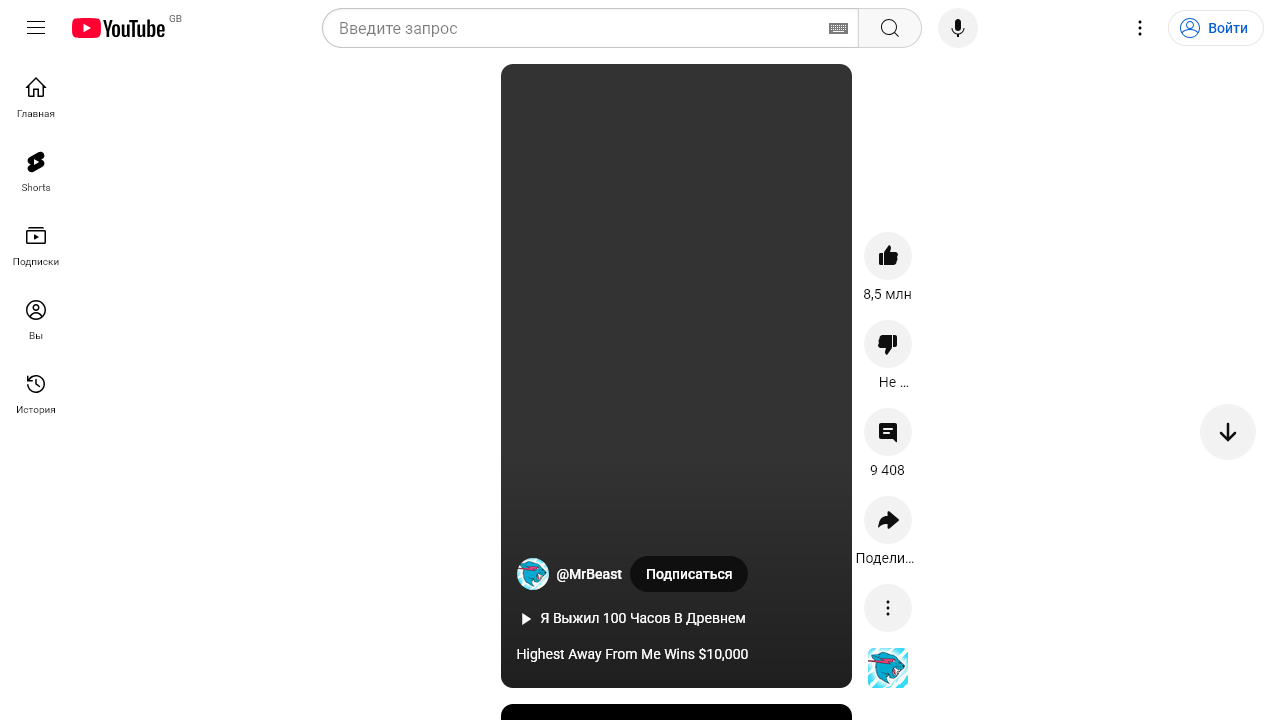
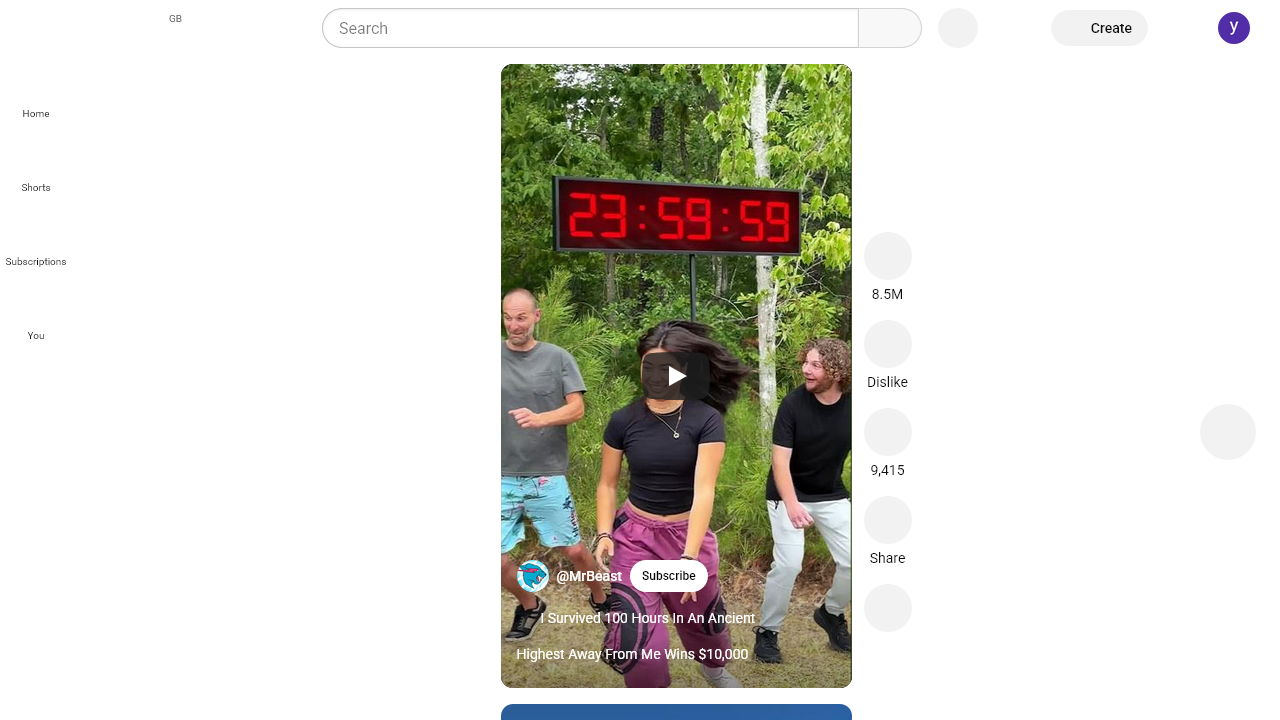
handle youtube login and include uBlockOrigin when testing

diff --git a/tests/youtube-extension.spec.ts b/tests/youtube-extension.spec.ts
@@ -2,15 +2,19 @@ import { test, expect, firefox } from "@playwright/test";
 import path from "path";
 import { withExtension } from "playwright-webextext";
 import { handleYoutubeConsent } from "./handleYoutubeConsent";
+import { handleGoogleLogin } from "./handleGoogleLogin";
+import { downloadAndExtractUBlock } from "./handleTestDistribution";
 
 require('dotenv').config();
+const authFile = path.join(__dirname, '../playwright/.auth/user.json');
 
 test.describe("YouTube Anti-Translate extension", () => {
   test("YouTube Anti-Translate extension prevents auto-translation", async () => {
+    downloadAndExtractUBlock();
     // Launch browser with the extension
     const context = await (withExtension(
       firefox,
-      path.resolve(__dirname, "../app")
+      [path.resolve(__dirname, "../app"), path.resolve(__dirname, "testUBlockOrigin")]
     )).launch()
 
     // Create a new page
@@ -34,6 +38,9 @@ test.describe("YouTube Anti-Translate extension", () => {
 
     // Sometimes youtube redirects to consent so handle it
     await handleYoutubeConsent(page);
+
+    // Player needs login to work so login
+    await handleGoogleLogin(page);
 
     // Wait for the video page to fully load
     await page.waitForSelector("ytd-watch-metadata");
@@ -88,10 +95,11 @@ test.describe("YouTube Anti-Translate extension", () => {
   });
 
   test("YouTube timecode links in description work correctly with Anti-Translate extension", async () => {
+    downloadAndExtractUBlock();
     // Launch browser with the extension
     const context = await (withExtension(
       firefox,
-      path.resolve(__dirname, "../app")
+      [path.resolve(__dirname, "../app"), path.resolve(__dirname, "testUBlockOrigin")]
     )).launch()
 
     // Create a new page
@@ -115,6 +123,9 @@ test.describe("YouTube Anti-Translate extension", () => {
 
     // Sometimes youtube redirects to consent so handle it
     await handleYoutubeConsent(page);
+
+    // Player needs login to work so login
+    await handleGoogleLogin(page);
 
     // Wait for the video page to fully load
     await page.waitForSelector("ytd-watch-metadata");
@@ -177,10 +188,11 @@ test.describe("YouTube Anti-Translate extension", () => {
   });
 
   test("YouTube Shorts title is not translated with Anti-Translate extension", async () => {
+    downloadAndExtractUBlock();
     // Launch browser with the extension
     const context = await (withExtension(
       firefox,
-      path.resolve(__dirname, "../app")
+      [path.resolve(__dirname, "../app"), path.resolve(__dirname, "testUBlockOrigin")]
     )).launch()
 
     // Create a new page
@@ -201,15 +213,17 @@ test.describe("YouTube Anti-Translate extension", () => {
     // Sometimes youtube redirects to consent so handle it
     await handleYoutubeConsent(page);
 
-    // On Firefox Shorts require login. Wait for it to load then hide it
-    await page.waitForTimeout(2000);
+    // On Firefox Shorts require login
+    await handleGoogleLogin(page);
+    // Wait for it to load then hide it
+    /*await page.waitForTimeout(2000);
     await page.waitForLoadState("networkidle");
     try {
       const playerErrorLoginSelector = 'div[id="shorts-inner-container"] div.style-scope.yt-playability-error-supported-renderers[id="container"]'
       await page.waitForSelector(playerErrorLoginSelector, { timeout: 10000 });
       const el = page.locator(playerErrorLoginSelector);
       await el.evaluate((node) => node.remove());
-    } catch (e) { }
+    } catch (e) { }*/
 
     // Wait for the shorts title element to be present
     const shortsTitleSelector = "yt-shorts-video-title-view-model > h2 > span";
@@ -237,10 +251,11 @@ test.describe("YouTube Anti-Translate extension", () => {
   });
 
   test("YouTube channel Videos and Shorts tabs retain original titles", async () => {
+    downloadAndExtractUBlock();
     // Launch browser with the extension
     const context = await (withExtension(
       firefox,
-      path.resolve(__dirname, "../app")
+      [path.resolve(__dirname, "../app"), path.resolve(__dirname, "testUBlockOrigin")]
     )).launch()
 
     // Create a new page

diff --git a/tests/handleTestDistribution.ts b/tests/handleTestDistribution.ts
@@ -1,5 +1,7 @@
 import fs from 'fs';
 import path from 'path';
+import https from 'https';
+import unzipper from 'unzipper';
 
 // Define the source and destination directories
 const srcDir = path.join(__dirname, '../app');
@@ -46,9 +48,9 @@ export function handleTestDistribution(configObject) {
 
       // Write the modified content back to the file
       fs.writeFileSync(filePath, modifiedData, 'utf-8');
-      console.log('start.js modified successfully!');
+      console.log('content_start modified successfully!');
     } else {
-      console.log('start.js not found!');
+      console.log('content_start not found!');
     }
   };
 
@@ -64,7 +66,71 @@ export function handleTestDistribution(configObject) {
 
   // Modify the start.js file after copying
   if (configObject) {
-    const startJsPath = path.join(destDir, 'src', 'start.js');
+    const startJsPath = path.join(destDir, 'src', 'content_start.js');
     modifyStartJs(startJsPath, configObject);
+  }
+}
+
+/**
+ * Downloads and extracts the uBlock Origin extension from Mozilla Add-ons,
+ * unless the correct version is already present.
+ */
+export function downloadAndExtractUBlock() {
+  const xpiUrl = 'https://addons.mozilla.org/firefox/downloads/file/4458450/ublock_origin-1.63.2.xpi';
+  const expectedVersion = '1.63.2';
+  const destDir = path.join(__dirname, 'testUBlockOrigin');
+  const manifestPath = path.join(destDir, 'manifest.json');
+
+  // Check if manifest.json exists and has the expected version
+  if (fs.existsSync(manifestPath)) {
+    try {
+      const manifestData = JSON.parse(fs.readFileSync(manifestPath, 'utf-8'));
+      if (manifestData.version === expectedVersion) {
+        console.log(`uBlock Origin version ${expectedVersion} already extracted.`);
+        return;
+      } else {
+        console.log(`Version mismatch. Expected ${expectedVersion}, found ${manifestData.version}. Re-downloading...`);
+      }
+    } catch (err) {
+      console.warn('Failed to parse existing manifest.json. Re-downloading...', err);
+    }
+  } else {
+    console.log('No manifest.json found. Proceeding with download.');
+  }
+
+  // Ensure destination directory exists
+  if (!fs.existsSync(destDir)) {
+    fs.mkdirSync(destDir, { recursive: true });
+    console.log('Created testUBlockOrigin directory');
+  }
+
+  console.log('Downloading uBlock Origin XPI...');
+
+  https.get(xpiUrl, (response) => {
+    if (response.statusCode !== 200) {
+      console.error(`Download failed with status code: ${response.statusCode}`);
+      return;
+    }
+
+    response
+      .pipe(unzipper.Extract({ path: destDir }))
+      .on('close', () => {
+        console.log('uBlock Origin extracted successfully!');
+      })
+      .on('error', (err) => {
+        console.error('Extraction failed:', err);
+      });
+  }).on('error', (err) => {
+    console.error('Download failed:', err);
+  });
+
+  wait(7000);
+}
+
+function wait(ms) {
+  var start = new Date().getTime();
+  var end = start;
+  while (end < start + ms) {
+    end = new Date().getTime();
   }
 }

diff --git a/tests/youtube-extension.extra.spec.ts b/tests/youtube-extension.extra.spec.ts
@@ -2,12 +2,13 @@ import { test, expect, firefox } from "@playwright/test";
 import path from "path";
 import { withExtension } from "playwright-webextext";
 import { handleYoutubeConsent } from "./handleYoutubeConsent";
-import { handleTestDistribution } from "./handleTestDistribution";
+import { handleTestDistribution, downloadAndExtractUBlock } from "./handleTestDistribution";
 
 require('dotenv').config();
 
 test.describe("YouTube Anti-Translate extension - Extras", () => {
   test("YouTube channel branding header and about retain original content", async () => {
+    downloadAndExtractUBlock();
     // --- Update Extension Settings and distribute a test copy ---
     // The object to be passed and inserted into the start.js file
     const configObject = { youtubeDataApiKey: process.env.YOUTUBE_API_KEY, untranslateChannelBranding: true };
@@ -16,7 +17,7 @@ test.describe("YouTube Anti-Translate extension - Extras", () => {
     // Launch browser with the extension
     const context = await (withExtension(
       firefox,
-      path.resolve(__dirname, "testDist")
+      [path.resolve(__dirname, "testDist"), path.resolve(__dirname, "testUBlockOrigin")]
     )).launch()
 
     // Create a new page
@@ -40,8 +41,6 @@ test.describe("YouTube Anti-Translate extension - Extras", () => {
 
     // Sometimes youtube redirects to consent so handle it
     await handleYoutubeConsent(page);
-
-    await page.waitForTimeout(1000);
 
     // Wait for the video grid to appear
     const channelHeaderSelector = "#page-header-container #page-header .page-header-view-model-wiz__page-header-headline-info"

diff --git a/tests/handleGoogleLogin.ts b/tests/handleGoogleLogin.ts
@@ -1,0 +1,51 @@
+import * as OTPAuth from "otpauth";
+
+require('dotenv').config();
+/**
+ * @param page
+ */
+export async function handleGoogleLogin(page) {
+  await page.waitForLoadState("load");
+
+  //Check if we need to login
+  const possibleLabels = ["Sign in", "Войти"];
+  for (const label of possibleLabels) {
+    const button = page.locator(`#masthead a:has-text("${label}")`).first();
+    if (await button.isVisible()) {
+      await button.scrollIntoViewIfNeeded();
+      await button.click();
+      await continueLoginSteps(page);
+      break;
+    }
+  }
+
+  async function continueLoginSteps(page) {
+    await page.waitForLoadState("networkidle");
+
+    await page.locator('#identifierId').fill(process.env.GOOGLE_USER);
+    await page.getByRole('button', { name: /Next|Далее/i }).click();
+    await page.waitForLoadState("networkidle");
+
+    await page.locator('#password input').fill(process.env.GOOGLE_PWD);
+    await page.getByRole('button', { name: /Next|Далее/i }).click();
+    await page.waitForLoadState("networkidle");
+
+    const twoFACode = generateOTP(process.env.GOOGLE_OTP_SECRET);
+    await page.locator('#totpPin').fill(twoFACode);
+    await page.getByRole('button', { name: /Next|Далее/i }).click();
+
+    await page.waitForTimeout(5000);
+    await page.waitForLoadState("load");
+  }
+}
+
+function generateOTP(secret) {
+  const totp = new OTPAuth.TOTP({
+    secret: secret,
+    digits: 6,
+    algorithm: "sha1",
+    period: 30,
+  });
+
+  return totp.generate();
+}

diff --git a/playwright.config.ts b/playwright.config.ts
@@ -43,8 +43,6 @@ export default defineConfig({
         launchOptions: {
           headless: false,
           args: [
-            `--disable-extensions-except=${path.resolve(__dirname, "app")}`,
-            `--load-extension=${path.resolve(__dirname, "app")}`,
             "--headless=new",
           ],
         },
@@ -60,8 +58,6 @@ export default defineConfig({
         launchOptions: {
           headless: false,
           args: [
-            `--disable-extensions-except=${path.resolve(__dirname, "tests/testDist")}`,
-            `--load-extension=${path.resolve(__dirname, "tests/testDist")}`,
             "--headless=new",
           ],
         },

diff --git a/tests/handleYoutubeConsent.ts b/tests/handleYoutubeConsent.ts
@@ -10,6 +10,8 @@ export async function handleYoutubeConsent(page) {
     await consentButton.scrollIntoViewIfNeeded();
     await consentButton.click();
   }
+  await page.waitForLoadState("networkidle");
+
   // Sometimes YouTube shows a cookies dialog, handle it if it appears
   const possibleLabels = ["Accept all", "Принять все", "ยอมรับทั้งหมด"];
   for (const label of possibleLabels) {
@@ -20,4 +22,7 @@ export async function handleYoutubeConsent(page) {
       break;
     }
   }
+
+  await page.waitForTimeout(5000);
+  await page.waitForLoadState("load");
 }
